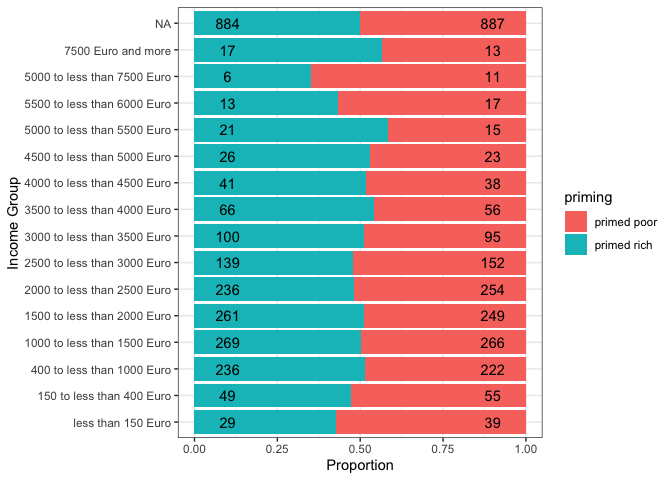
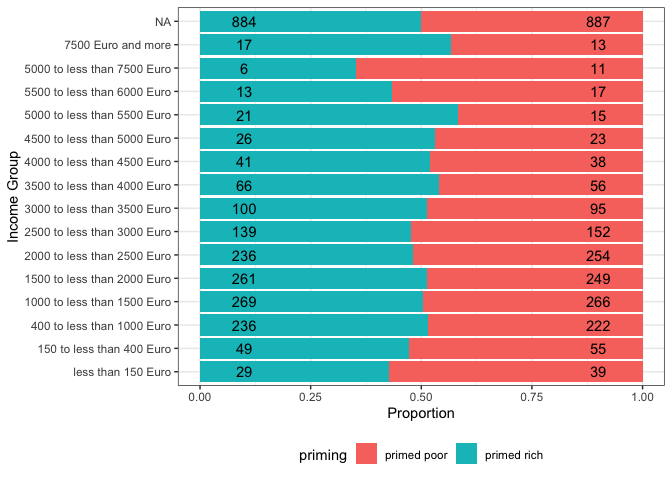
add outputs of tables in tex format and figures in PNG format

diff --git a/out/table_2.tex b/out/table_2.tex
@@ -1,0 +1,19 @@
+\captionsetup[table]{labelformat=empty,skip=1pt}
+\begin{longtable}{lrlrrlrrrr}
+\toprule
+ & \multicolumn{3}{c}{primed rich} & \multicolumn{3}{c}{primed poor} & \multicolumn{3}{c}{control} \\ 
+ \cmidrule(lr){2-4} \cmidrule(lr){5-7} \cmidrule(lr){8-10}
+variable & obs & mean & sd & obs. & mean. & sd. & obs.. & mean.. & sd.. \\ 
+\midrule
+income & 2072 &   2270.9 & 2310.2 & 2098 &  2227 & 2057.6 & 2073 & 2203.9 & 1973.9 \\ 
+male & 2072 &   † † 50.3 & 50.0 & 2098 &  * 47.2 & 49.9 & 2073 & 50.0 & 50.0 \\ 
+age & 2072 &   47.3 & 15.7 & 2098 &  47.1 & 15.5 & 2073 & 47.1 & 15.8 \\ 
+edu & 2072 &  * *  † † 4.6 & 1.2 & 2098 &  4.7 & 1.1 & 2073 & 4.7 & 1.1 \\ 
+married & 2072 &   † 47 & 49.9 & 2098 &  49.6 & 50.0 & 2073 & 49.2 & 50.0 \\ 
+student & 2072 &   4.2 & 20.0 & 2098 &  3.9 & 19.3 & 2073 & 4.2 & 20.2 \\ 
+religiousness & 2072 &   3.8 & 2.9 & 2098 &  4 & 2.9 & 2073 & 3.9 & 2.9 \\ 
+east & 2072 &   12 & 32.5 & 2098 &  * * 13.6 & 34.3 & 2073 & 11.5 & 31.9 \\ 
+leftright & 2072 &  * *  5.5 & 1.9 & 2098 &  5.4 & 1.9 & 2073 & 5.4 & 1.8 \\ 
+ \bottomrule
+\end{longtable}
+

diff --git a/out/table_a3.2_check.tex b/out/table_a3.2_check.tex
@@ -1,0 +1,18 @@
+
+\begin{tabular}{r|r|l|r}
+\hline
+q37 & q38 & treatment & payoff\\
+\hline
+15 & 3 & Primed\_poor & 16\\
+\hline
+15 & 3 & Primed\_poor & 8\\
+\hline
+15 & 3 & Primed\_rich & 10\\
+\hline
+15 & 3 & Primed\_rich & 20\\
+\hline
+15 & 3 & Primed\_rich & 10\\
+\hline
+15 & 3 & control & 16\\
+\hline
+\end{tabular}

diff --git a/replication.md b/replication.md
@@ -141,15 +141,17 @@ p_cutoffs <- c(0.1, 0.05, 0.01)
 ## Table 1
 
 ``` r
-summary_out %>%
+table_1 <- summary_out %>%
     mutate(mean = paste(pander::add.significance.stars(stats$p_value, 
                                                         cutoffs = p_cutoffs), mean)) %>% 
     gt() %>%
-    tab_spanner(label = "primed rich", 
+    tab_spanner(label = "primed rich",
                 columns = c("obs", "mean", "sd")) %>%
-    tab_spanner(label = "primed poor", 
+    tab_spanner(label = "primed poor",
                 columns = c("obs.", "mean.", "sd.")) %>%
-    as_raw_html()
+    cols_align(align = "right", "mean")
+
+table_1 %>% as_raw_html()
 ```
 
 <table style="font-family: -apple-system, BlinkMacSystemFont, 'Segoe UI', Roboto, Oxygen, Ubuntu, Cantarell, 'Helvetica Neue', 'Fira Sans', 'Droid Sans', Arial, sans-serif; display: table; border-collapse: collapse; margin-left: auto; margin-right: auto; color: #333333; font-size: 16px; font-weight: normal; font-style: normal; background-color: #FFFFFF; width: auto; border-top-style: solid; border-top-width: 2px; border-top-color: #A8A8A8; border-right-style: none; border-right-width: 2px; border-right-color: #D3D3D3; border-bottom-style: solid; border-bottom-width: 2px; border-bottom-color: #A8A8A8; border-left-style: none; border-left-width: 2px; border-left-color: #D3D3D3;">
@@ -166,7 +168,7 @@ summary_out %>%
     </tr>
     <tr>
       <th style="color: #333333; background-color: #FFFFFF; font-size: 100%; font-weight: normal; text-transform: inherit; border-left-style: none; border-left-width: 1px; border-left-color: #D3D3D3; border-right-style: none; border-right-width: 1px; border-right-color: #D3D3D3; vertical-align: bottom; padding-top: 5px; padding-bottom: 6px; padding-left: 5px; padding-right: 5px; overflow-x: hidden; text-align: right; font-variant-numeric: tabular-nums;" rowspan="1" colspan="1">obs</th>
-      <th style="color: #333333; background-color: #FFFFFF; font-size: 100%; font-weight: normal; text-transform: inherit; border-left-style: none; border-left-width: 1px; border-left-color: #D3D3D3; border-right-style: none; border-right-width: 1px; border-right-color: #D3D3D3; vertical-align: bottom; padding-top: 5px; padding-bottom: 6px; padding-left: 5px; padding-right: 5px; overflow-x: hidden; text-align: left;" rowspan="1" colspan="1">mean</th>
+      <th style="color: #333333; background-color: #FFFFFF; font-size: 100%; font-weight: normal; text-transform: inherit; border-left-style: none; border-left-width: 1px; border-left-color: #D3D3D3; border-right-style: none; border-right-width: 1px; border-right-color: #D3D3D3; vertical-align: bottom; padding-top: 5px; padding-bottom: 6px; padding-left: 5px; padding-right: 5px; overflow-x: hidden; text-align: right; font-variant-numeric: tabular-nums;" rowspan="1" colspan="1">mean</th>
       <th style="color: #333333; background-color: #FFFFFF; font-size: 100%; font-weight: normal; text-transform: inherit; border-left-style: none; border-left-width: 1px; border-left-color: #D3D3D3; border-right-style: none; border-right-width: 1px; border-right-color: #D3D3D3; vertical-align: bottom; padding-top: 5px; padding-bottom: 6px; padding-left: 5px; padding-right: 5px; overflow-x: hidden; text-align: right; font-variant-numeric: tabular-nums;" rowspan="1" colspan="1">sd</th>
       <th style="color: #333333; background-color: #FFFFFF; font-size: 100%; font-weight: normal; text-transform: inherit; border-left-style: none; border-left-width: 1px; border-left-color: #D3D3D3; border-right-style: none; border-right-width: 1px; border-right-color: #D3D3D3; vertical-align: bottom; padding-top: 5px; padding-bottom: 6px; padding-left: 5px; padding-right: 5px; overflow-x: hidden; text-align: right; font-variant-numeric: tabular-nums;" rowspan="1" colspan="1">obs.</th>
       <th style="color: #333333; background-color: #FFFFFF; font-size: 100%; font-weight: normal; text-transform: inherit; border-left-style: none; border-left-width: 1px; border-left-color: #D3D3D3; border-right-style: none; border-right-width: 1px; border-right-color: #D3D3D3; vertical-align: bottom; padding-top: 5px; padding-bottom: 6px; padding-left: 5px; padding-right: 5px; overflow-x: hidden; text-align: right; font-variant-numeric: tabular-nums;" rowspan="1" colspan="1">mean.</th>
@@ -176,63 +178,63 @@ summary_out %>%
   <tbody style="border-top-style: solid; border-top-width: 2px; border-top-color: #D3D3D3; border-bottom-style: solid; border-bottom-width: 2px; border-bottom-color: #D3D3D3;">
     <tr><td style="padding-top: 8px; padding-bottom: 8px; padding-left: 5px; padding-right: 5px; margin: 10px; border-top-style: solid; border-top-width: 1px; border-top-color: #D3D3D3; border-left-style: none; border-left-width: 1px; border-left-color: #D3D3D3; border-right-style: none; border-right-width: 1px; border-right-color: #D3D3D3; vertical-align: middle; overflow-x: hidden; text-align: left;">income</td>
 <td style="padding-top: 8px; padding-bottom: 8px; padding-left: 5px; padding-right: 5px; margin: 10px; border-top-style: solid; border-top-width: 1px; border-top-color: #D3D3D3; border-left-style: none; border-left-width: 1px; border-left-color: #D3D3D3; border-right-style: none; border-right-width: 1px; border-right-color: #D3D3D3; vertical-align: middle; overflow-x: hidden; text-align: right; font-variant-numeric: tabular-nums;">1509</td>
-<td style="padding-top: 8px; padding-bottom: 8px; padding-left: 5px; padding-right: 5px; margin: 10px; border-top-style: solid; border-top-width: 1px; border-top-color: #D3D3D3; border-left-style: none; border-left-width: 1px; border-left-color: #D3D3D3; border-right-style: none; border-right-width: 1px; border-right-color: #D3D3D3; vertical-align: middle; overflow-x: hidden; text-align: left;"> 2075.3</td>
+<td style="padding-top: 8px; padding-bottom: 8px; padding-left: 5px; padding-right: 5px; margin: 10px; border-top-style: solid; border-top-width: 1px; border-top-color: #D3D3D3; border-left-style: none; border-left-width: 1px; border-left-color: #D3D3D3; border-right-style: none; border-right-width: 1px; border-right-color: #D3D3D3; vertical-align: middle; overflow-x: hidden; text-align: right; font-variant-numeric: tabular-nums;"> 2075.3</td>
 <td style="padding-top: 8px; padding-bottom: 8px; padding-left: 5px; padding-right: 5px; margin: 10px; border-top-style: solid; border-top-width: 1px; border-top-color: #D3D3D3; border-left-style: none; border-left-width: 1px; border-left-color: #D3D3D3; border-right-style: none; border-right-width: 1px; border-right-color: #D3D3D3; vertical-align: middle; overflow-x: hidden; text-align: right; font-variant-numeric: tabular-nums;">1406.0</td>
 <td style="padding-top: 8px; padding-bottom: 8px; padding-left: 5px; padding-right: 5px; margin: 10px; border-top-style: solid; border-top-width: 1px; border-top-color: #D3D3D3; border-left-style: none; border-left-width: 1px; border-left-color: #D3D3D3; border-right-style: none; border-right-width: 1px; border-right-color: #D3D3D3; vertical-align: middle; overflow-x: hidden; text-align: right; font-variant-numeric: tabular-nums;">1505</td>
 <td style="padding-top: 8px; padding-bottom: 8px; padding-left: 5px; padding-right: 5px; margin: 10px; border-top-style: solid; border-top-width: 1px; border-top-color: #D3D3D3; border-left-style: none; border-left-width: 1px; border-left-color: #D3D3D3; border-right-style: none; border-right-width: 1px; border-right-color: #D3D3D3; vertical-align: middle; overflow-x: hidden; text-align: right; font-variant-numeric: tabular-nums;">2050.0</td>
 <td style="padding-top: 8px; padding-bottom: 8px; padding-left: 5px; padding-right: 5px; margin: 10px; border-top-style: solid; border-top-width: 1px; border-top-color: #D3D3D3; border-left-style: none; border-left-width: 1px; border-left-color: #D3D3D3; border-right-style: none; border-right-width: 1px; border-right-color: #D3D3D3; vertical-align: middle; overflow-x: hidden; text-align: right; font-variant-numeric: tabular-nums;">1381.5</td></tr>
     <tr><td style="padding-top: 8px; padding-bottom: 8px; padding-left: 5px; padding-right: 5px; margin: 10px; border-top-style: solid; border-top-width: 1px; border-top-color: #D3D3D3; border-left-style: none; border-left-width: 1px; border-left-color: #D3D3D3; border-right-style: none; border-right-width: 1px; border-right-color: #D3D3D3; vertical-align: middle; overflow-x: hidden; text-align: left;">male</td>
 <td style="padding-top: 8px; padding-bottom: 8px; padding-left: 5px; padding-right: 5px; margin: 10px; border-top-style: solid; border-top-width: 1px; border-top-color: #D3D3D3; border-left-style: none; border-left-width: 1px; border-left-color: #D3D3D3; border-right-style: none; border-right-width: 1px; border-right-color: #D3D3D3; vertical-align: middle; overflow-x: hidden; text-align: right; font-variant-numeric: tabular-nums;">2253</td>
-<td style="padding-top: 8px; padding-bottom: 8px; padding-left: 5px; padding-right: 5px; margin: 10px; border-top-style: solid; border-top-width: 1px; border-top-color: #D3D3D3; border-left-style: none; border-left-width: 1px; border-left-color: #D3D3D3; border-right-style: none; border-right-width: 1px; border-right-color: #D3D3D3; vertical-align: middle; overflow-x: hidden; text-align: left;"> 51.7</td>
+<td style="padding-top: 8px; padding-bottom: 8px; padding-left: 5px; padding-right: 5px; margin: 10px; border-top-style: solid; border-top-width: 1px; border-top-color: #D3D3D3; border-left-style: none; border-left-width: 1px; border-left-color: #D3D3D3; border-right-style: none; border-right-width: 1px; border-right-color: #D3D3D3; vertical-align: middle; overflow-x: hidden; text-align: right; font-variant-numeric: tabular-nums;"> 51.7</td>
 <td style="padding-top: 8px; padding-bottom: 8px; padding-left: 5px; padding-right: 5px; margin: 10px; border-top-style: solid; border-top-width: 1px; border-top-color: #D3D3D3; border-left-style: none; border-left-width: 1px; border-left-color: #D3D3D3; border-right-style: none; border-right-width: 1px; border-right-color: #D3D3D3; vertical-align: middle; overflow-x: hidden; text-align: right; font-variant-numeric: tabular-nums;">50.0</td>
 <td style="padding-top: 8px; padding-bottom: 8px; padding-left: 5px; padding-right: 5px; margin: 10px; border-top-style: solid; border-top-width: 1px; border-top-color: #D3D3D3; border-left-style: none; border-left-width: 1px; border-left-color: #D3D3D3; border-right-style: none; border-right-width: 1px; border-right-color: #D3D3D3; vertical-align: middle; overflow-x: hidden; text-align: right; font-variant-numeric: tabular-nums;">2254</td>
 <td style="padding-top: 8px; padding-bottom: 8px; padding-left: 5px; padding-right: 5px; margin: 10px; border-top-style: solid; border-top-width: 1px; border-top-color: #D3D3D3; border-left-style: none; border-left-width: 1px; border-left-color: #D3D3D3; border-right-style: none; border-right-width: 1px; border-right-color: #D3D3D3; vertical-align: middle; overflow-x: hidden; text-align: right; font-variant-numeric: tabular-nums;">50.8</td>
 <td style="padding-top: 8px; padding-bottom: 8px; padding-left: 5px; padding-right: 5px; margin: 10px; border-top-style: solid; border-top-width: 1px; border-top-color: #D3D3D3; border-left-style: none; border-left-width: 1px; border-left-color: #D3D3D3; border-right-style: none; border-right-width: 1px; border-right-color: #D3D3D3; vertical-align: middle; overflow-x: hidden; text-align: right; font-variant-numeric: tabular-nums;">50.0</td></tr>
     <tr><td style="padding-top: 8px; padding-bottom: 8px; padding-left: 5px; padding-right: 5px; margin: 10px; border-top-style: solid; border-top-width: 1px; border-top-color: #D3D3D3; border-left-style: none; border-left-width: 1px; border-left-color: #D3D3D3; border-right-style: none; border-right-width: 1px; border-right-color: #D3D3D3; vertical-align: middle; overflow-x: hidden; text-align: left;">age</td>
 <td style="padding-top: 8px; padding-bottom: 8px; padding-left: 5px; padding-right: 5px; margin: 10px; border-top-style: solid; border-top-width: 1px; border-top-color: #D3D3D3; border-left-style: none; border-left-width: 1px; border-left-color: #D3D3D3; border-right-style: none; border-right-width: 1px; border-right-color: #D3D3D3; vertical-align: middle; overflow-x: hidden; text-align: right; font-variant-numeric: tabular-nums;">2252</td>
-<td style="padding-top: 8px; padding-bottom: 8px; padding-left: 5px; padding-right: 5px; margin: 10px; border-top-style: solid; border-top-width: 1px; border-top-color: #D3D3D3; border-left-style: none; border-left-width: 1px; border-left-color: #D3D3D3; border-right-style: none; border-right-width: 1px; border-right-color: #D3D3D3; vertical-align: middle; overflow-x: hidden; text-align: left;"> * 50.6</td>
+<td style="padding-top: 8px; padding-bottom: 8px; padding-left: 5px; padding-right: 5px; margin: 10px; border-top-style: solid; border-top-width: 1px; border-top-color: #D3D3D3; border-left-style: none; border-left-width: 1px; border-left-color: #D3D3D3; border-right-style: none; border-right-width: 1px; border-right-color: #D3D3D3; vertical-align: middle; overflow-x: hidden; text-align: right; font-variant-numeric: tabular-nums;"> * 50.6</td>
 <td style="padding-top: 8px; padding-bottom: 8px; padding-left: 5px; padding-right: 5px; margin: 10px; border-top-style: solid; border-top-width: 1px; border-top-color: #D3D3D3; border-left-style: none; border-left-width: 1px; border-left-color: #D3D3D3; border-right-style: none; border-right-width: 1px; border-right-color: #D3D3D3; vertical-align: middle; overflow-x: hidden; text-align: right; font-variant-numeric: tabular-nums;">15.6</td>
 <td style="padding-top: 8px; padding-bottom: 8px; padding-left: 5px; padding-right: 5px; margin: 10px; border-top-style: solid; border-top-width: 1px; border-top-color: #D3D3D3; border-left-style: none; border-left-width: 1px; border-left-color: #D3D3D3; border-right-style: none; border-right-width: 1px; border-right-color: #D3D3D3; vertical-align: middle; overflow-x: hidden; text-align: right; font-variant-numeric: tabular-nums;">2255</td>
 <td style="padding-top: 8px; padding-bottom: 8px; padding-left: 5px; padding-right: 5px; margin: 10px; border-top-style: solid; border-top-width: 1px; border-top-color: #D3D3D3; border-left-style: none; border-left-width: 1px; border-left-color: #D3D3D3; border-right-style: none; border-right-width: 1px; border-right-color: #D3D3D3; vertical-align: middle; overflow-x: hidden; text-align: right; font-variant-numeric: tabular-nums;">49.7</td>
 <td style="padding-top: 8px; padding-bottom: 8px; padding-left: 5px; padding-right: 5px; margin: 10px; border-top-style: solid; border-top-width: 1px; border-top-color: #D3D3D3; border-left-style: none; border-left-width: 1px; border-left-color: #D3D3D3; border-right-style: none; border-right-width: 1px; border-right-color: #D3D3D3; vertical-align: middle; overflow-x: hidden; text-align: right; font-variant-numeric: tabular-nums;">15.6</td></tr>
     <tr><td style="padding-top: 8px; padding-bottom: 8px; padding-left: 5px; padding-right: 5px; margin: 10px; border-top-style: solid; border-top-width: 1px; border-top-color: #D3D3D3; border-left-style: none; border-left-width: 1px; border-left-color: #D3D3D3; border-right-style: none; border-right-width: 1px; border-right-color: #D3D3D3; vertical-align: middle; overflow-x: hidden; text-align: left;">edu</td>
 <td style="padding-top: 8px; padding-bottom: 8px; padding-left: 5px; padding-right: 5px; margin: 10px; border-top-style: solid; border-top-width: 1px; border-top-color: #D3D3D3; border-left-style: none; border-left-width: 1px; border-left-color: #D3D3D3; border-right-style: none; border-right-width: 1px; border-right-color: #D3D3D3; vertical-align: middle; overflow-x: hidden; text-align: right; font-variant-numeric: tabular-nums;">2268</td>
-<td style="padding-top: 8px; padding-bottom: 8px; padding-left: 5px; padding-right: 5px; margin: 10px; border-top-style: solid; border-top-width: 1px; border-top-color: #D3D3D3; border-left-style: none; border-left-width: 1px; border-left-color: #D3D3D3; border-right-style: none; border-right-width: 1px; border-right-color: #D3D3D3; vertical-align: middle; overflow-x: hidden; text-align: left;"> 2</td>
+<td style="padding-top: 8px; padding-bottom: 8px; padding-left: 5px; padding-right: 5px; margin: 10px; border-top-style: solid; border-top-width: 1px; border-top-color: #D3D3D3; border-left-style: none; border-left-width: 1px; border-left-color: #D3D3D3; border-right-style: none; border-right-width: 1px; border-right-color: #D3D3D3; vertical-align: middle; overflow-x: hidden; text-align: right; font-variant-numeric: tabular-nums;"> 2</td>
 <td style="padding-top: 8px; padding-bottom: 8px; padding-left: 5px; padding-right: 5px; margin: 10px; border-top-style: solid; border-top-width: 1px; border-top-color: #D3D3D3; border-left-style: none; border-left-width: 1px; border-left-color: #D3D3D3; border-right-style: none; border-right-width: 1px; border-right-color: #D3D3D3; vertical-align: middle; overflow-x: hidden; text-align: right; font-variant-numeric: tabular-nums;">1.4</td>
 <td style="padding-top: 8px; padding-bottom: 8px; padding-left: 5px; padding-right: 5px; margin: 10px; border-top-style: solid; border-top-width: 1px; border-top-color: #D3D3D3; border-left-style: none; border-left-width: 1px; border-left-color: #D3D3D3; border-right-style: none; border-right-width: 1px; border-right-color: #D3D3D3; vertical-align: middle; overflow-x: hidden; text-align: right; font-variant-numeric: tabular-nums;">2270</td>
 <td style="padding-top: 8px; padding-bottom: 8px; padding-left: 5px; padding-right: 5px; margin: 10px; border-top-style: solid; border-top-width: 1px; border-top-color: #D3D3D3; border-left-style: none; border-left-width: 1px; border-left-color: #D3D3D3; border-right-style: none; border-right-width: 1px; border-right-color: #D3D3D3; vertical-align: middle; overflow-x: hidden; text-align: right; font-variant-numeric: tabular-nums;">2.0</td>
 <td style="padding-top: 8px; padding-bottom: 8px; padding-left: 5px; padding-right: 5px; margin: 10px; border-top-style: solid; border-top-width: 1px; border-top-color: #D3D3D3; border-left-style: none; border-left-width: 1px; border-left-color: #D3D3D3; border-right-style: none; border-right-width: 1px; border-right-color: #D3D3D3; vertical-align: middle; overflow-x: hidden; text-align: right; font-variant-numeric: tabular-nums;">1.4</td></tr>
     <tr><td style="padding-top: 8px; padding-bottom: 8px; padding-left: 5px; padding-right: 5px; margin: 10px; border-top-style: solid; border-top-width: 1px; border-top-color: #D3D3D3; border-left-style: none; border-left-width: 1px; border-left-color: #D3D3D3; border-right-style: none; border-right-width: 1px; border-right-color: #D3D3D3; vertical-align: middle; overflow-x: hidden; text-align: left;">married</td>
 <td style="padding-top: 8px; padding-bottom: 8px; padding-left: 5px; padding-right: 5px; margin: 10px; border-top-style: solid; border-top-width: 1px; border-top-color: #D3D3D3; border-left-style: none; border-left-width: 1px; border-left-color: #D3D3D3; border-right-style: none; border-right-width: 1px; border-right-color: #D3D3D3; vertical-align: middle; overflow-x: hidden; text-align: right; font-variant-numeric: tabular-nums;">2393</td>
-<td style="padding-top: 8px; padding-bottom: 8px; padding-left: 5px; padding-right: 5px; margin: 10px; border-top-style: solid; border-top-width: 1px; border-top-color: #D3D3D3; border-left-style: none; border-left-width: 1px; border-left-color: #D3D3D3; border-right-style: none; border-right-width: 1px; border-right-color: #D3D3D3; vertical-align: middle; overflow-x: hidden; text-align: left;"> * 52.8</td>
+<td style="padding-top: 8px; padding-bottom: 8px; padding-left: 5px; padding-right: 5px; margin: 10px; border-top-style: solid; border-top-width: 1px; border-top-color: #D3D3D3; border-left-style: none; border-left-width: 1px; border-left-color: #D3D3D3; border-right-style: none; border-right-width: 1px; border-right-color: #D3D3D3; vertical-align: middle; overflow-x: hidden; text-align: right; font-variant-numeric: tabular-nums;"> * 52.8</td>
 <td style="padding-top: 8px; padding-bottom: 8px; padding-left: 5px; padding-right: 5px; margin: 10px; border-top-style: solid; border-top-width: 1px; border-top-color: #D3D3D3; border-left-style: none; border-left-width: 1px; border-left-color: #D3D3D3; border-right-style: none; border-right-width: 1px; border-right-color: #D3D3D3; vertical-align: middle; overflow-x: hidden; text-align: right; font-variant-numeric: tabular-nums;">49.9</td>
 <td style="padding-top: 8px; padding-bottom: 8px; padding-left: 5px; padding-right: 5px; margin: 10px; border-top-style: solid; border-top-width: 1px; border-top-color: #D3D3D3; border-left-style: none; border-left-width: 1px; border-left-color: #D3D3D3; border-right-style: none; border-right-width: 1px; border-right-color: #D3D3D3; vertical-align: middle; overflow-x: hidden; text-align: right; font-variant-numeric: tabular-nums;">2392</td>
 <td style="padding-top: 8px; padding-bottom: 8px; padding-left: 5px; padding-right: 5px; margin: 10px; border-top-style: solid; border-top-width: 1px; border-top-color: #D3D3D3; border-left-style: none; border-left-width: 1px; border-left-color: #D3D3D3; border-right-style: none; border-right-width: 1px; border-right-color: #D3D3D3; vertical-align: middle; overflow-x: hidden; text-align: right; font-variant-numeric: tabular-nums;">50.3</td>
 <td style="padding-top: 8px; padding-bottom: 8px; padding-left: 5px; padding-right: 5px; margin: 10px; border-top-style: solid; border-top-width: 1px; border-top-color: #D3D3D3; border-left-style: none; border-left-width: 1px; border-left-color: #D3D3D3; border-right-style: none; border-right-width: 1px; border-right-color: #D3D3D3; vertical-align: middle; overflow-x: hidden; text-align: right; font-variant-numeric: tabular-nums;">50.0</td></tr>
     <tr><td style="padding-top: 8px; padding-bottom: 8px; padding-left: 5px; padding-right: 5px; margin: 10px; border-top-style: solid; border-top-width: 1px; border-top-color: #D3D3D3; border-left-style: none; border-left-width: 1px; border-left-color: #D3D3D3; border-right-style: none; border-right-width: 1px; border-right-color: #D3D3D3; vertical-align: middle; overflow-x: hidden; text-align: left;">student</td>
 <td style="padding-top: 8px; padding-bottom: 8px; padding-left: 5px; padding-right: 5px; margin: 10px; border-top-style: solid; border-top-width: 1px; border-top-color: #D3D3D3; border-left-style: none; border-left-width: 1px; border-left-color: #D3D3D3; border-right-style: none; border-right-width: 1px; border-right-color: #D3D3D3; vertical-align: middle; overflow-x: hidden; text-align: right; font-variant-numeric: tabular-nums;">2393</td>
-<td style="padding-top: 8px; padding-bottom: 8px; padding-left: 5px; padding-right: 5px; margin: 10px; border-top-style: solid; border-top-width: 1px; border-top-color: #D3D3D3; border-left-style: none; border-left-width: 1px; border-left-color: #D3D3D3; border-right-style: none; border-right-width: 1px; border-right-color: #D3D3D3; vertical-align: middle; overflow-x: hidden; text-align: left;"> 4.4</td>
+<td style="padding-top: 8px; padding-bottom: 8px; padding-left: 5px; padding-right: 5px; margin: 10px; border-top-style: solid; border-top-width: 1px; border-top-color: #D3D3D3; border-left-style: none; border-left-width: 1px; border-left-color: #D3D3D3; border-right-style: none; border-right-width: 1px; border-right-color: #D3D3D3; vertical-align: middle; overflow-x: hidden; text-align: right; font-variant-numeric: tabular-nums;"> 4.4</td>
 <td style="padding-top: 8px; padding-bottom: 8px; padding-left: 5px; padding-right: 5px; margin: 10px; border-top-style: solid; border-top-width: 1px; border-top-color: #D3D3D3; border-left-style: none; border-left-width: 1px; border-left-color: #D3D3D3; border-right-style: none; border-right-width: 1px; border-right-color: #D3D3D3; vertical-align: middle; overflow-x: hidden; text-align: right; font-variant-numeric: tabular-nums;">20.6</td>
 <td style="padding-top: 8px; padding-bottom: 8px; padding-left: 5px; padding-right: 5px; margin: 10px; border-top-style: solid; border-top-width: 1px; border-top-color: #D3D3D3; border-left-style: none; border-left-width: 1px; border-left-color: #D3D3D3; border-right-style: none; border-right-width: 1px; border-right-color: #D3D3D3; vertical-align: middle; overflow-x: hidden; text-align: right; font-variant-numeric: tabular-nums;">2392</td>
 <td style="padding-top: 8px; padding-bottom: 8px; padding-left: 5px; padding-right: 5px; margin: 10px; border-top-style: solid; border-top-width: 1px; border-top-color: #D3D3D3; border-left-style: none; border-left-width: 1px; border-left-color: #D3D3D3; border-right-style: none; border-right-width: 1px; border-right-color: #D3D3D3; vertical-align: middle; overflow-x: hidden; text-align: right; font-variant-numeric: tabular-nums;">4.7</td>
 <td style="padding-top: 8px; padding-bottom: 8px; padding-left: 5px; padding-right: 5px; margin: 10px; border-top-style: solid; border-top-width: 1px; border-top-color: #D3D3D3; border-left-style: none; border-left-width: 1px; border-left-color: #D3D3D3; border-right-style: none; border-right-width: 1px; border-right-color: #D3D3D3; vertical-align: middle; overflow-x: hidden; text-align: right; font-variant-numeric: tabular-nums;">21.1</td></tr>
     <tr><td style="padding-top: 8px; padding-bottom: 8px; padding-left: 5px; padding-right: 5px; margin: 10px; border-top-style: solid; border-top-width: 1px; border-top-color: #D3D3D3; border-left-style: none; border-left-width: 1px; border-left-color: #D3D3D3; border-right-style: none; border-right-width: 1px; border-right-color: #D3D3D3; vertical-align: middle; overflow-x: hidden; text-align: left;">religiousness</td>
 <td style="padding-top: 8px; padding-bottom: 8px; padding-left: 5px; padding-right: 5px; margin: 10px; border-top-style: solid; border-top-width: 1px; border-top-color: #D3D3D3; border-left-style: none; border-left-width: 1px; border-left-color: #D3D3D3; border-right-style: none; border-right-width: 1px; border-right-color: #D3D3D3; vertical-align: middle; overflow-x: hidden; text-align: right; font-variant-numeric: tabular-nums;">2243</td>
-<td style="padding-top: 8px; padding-bottom: 8px; padding-left: 5px; padding-right: 5px; margin: 10px; border-top-style: solid; border-top-width: 1px; border-top-color: #D3D3D3; border-left-style: none; border-left-width: 1px; border-left-color: #D3D3D3; border-right-style: none; border-right-width: 1px; border-right-color: #D3D3D3; vertical-align: middle; overflow-x: hidden; text-align: left;"> 4.4</td>
+<td style="padding-top: 8px; padding-bottom: 8px; padding-left: 5px; padding-right: 5px; margin: 10px; border-top-style: solid; border-top-width: 1px; border-top-color: #D3D3D3; border-left-style: none; border-left-width: 1px; border-left-color: #D3D3D3; border-right-style: none; border-right-width: 1px; border-right-color: #D3D3D3; vertical-align: middle; overflow-x: hidden; text-align: right; font-variant-numeric: tabular-nums;"> 4.4</td>
 <td style="padding-top: 8px; padding-bottom: 8px; padding-left: 5px; padding-right: 5px; margin: 10px; border-top-style: solid; border-top-width: 1px; border-top-color: #D3D3D3; border-left-style: none; border-left-width: 1px; border-left-color: #D3D3D3; border-right-style: none; border-right-width: 1px; border-right-color: #D3D3D3; vertical-align: middle; overflow-x: hidden; text-align: right; font-variant-numeric: tabular-nums;">3.0</td>
 <td style="padding-top: 8px; padding-bottom: 8px; padding-left: 5px; padding-right: 5px; margin: 10px; border-top-style: solid; border-top-width: 1px; border-top-color: #D3D3D3; border-left-style: none; border-left-width: 1px; border-left-color: #D3D3D3; border-right-style: none; border-right-width: 1px; border-right-color: #D3D3D3; vertical-align: middle; overflow-x: hidden; text-align: right; font-variant-numeric: tabular-nums;">2263</td>
 <td style="padding-top: 8px; padding-bottom: 8px; padding-left: 5px; padding-right: 5px; margin: 10px; border-top-style: solid; border-top-width: 1px; border-top-color: #D3D3D3; border-left-style: none; border-left-width: 1px; border-left-color: #D3D3D3; border-right-style: none; border-right-width: 1px; border-right-color: #D3D3D3; vertical-align: middle; overflow-x: hidden; text-align: right; font-variant-numeric: tabular-nums;">4.4</td>
 <td style="padding-top: 8px; padding-bottom: 8px; padding-left: 5px; padding-right: 5px; margin: 10px; border-top-style: solid; border-top-width: 1px; border-top-color: #D3D3D3; border-left-style: none; border-left-width: 1px; border-left-color: #D3D3D3; border-right-style: none; border-right-width: 1px; border-right-color: #D3D3D3; vertical-align: middle; overflow-x: hidden; text-align: right; font-variant-numeric: tabular-nums;">3.0</td></tr>
     <tr><td style="padding-top: 8px; padding-bottom: 8px; padding-left: 5px; padding-right: 5px; margin: 10px; border-top-style: solid; border-top-width: 1px; border-top-color: #D3D3D3; border-left-style: none; border-left-width: 1px; border-left-color: #D3D3D3; border-right-style: none; border-right-width: 1px; border-right-color: #D3D3D3; vertical-align: middle; overflow-x: hidden; text-align: left;">east</td>
 <td style="padding-top: 8px; padding-bottom: 8px; padding-left: 5px; padding-right: 5px; margin: 10px; border-top-style: solid; border-top-width: 1px; border-top-color: #D3D3D3; border-left-style: none; border-left-width: 1px; border-left-color: #D3D3D3; border-right-style: none; border-right-width: 1px; border-right-color: #D3D3D3; vertical-align: middle; overflow-x: hidden; text-align: right; font-variant-numeric: tabular-nums;">2392</td>
-<td style="padding-top: 8px; padding-bottom: 8px; padding-left: 5px; padding-right: 5px; margin: 10px; border-top-style: solid; border-top-width: 1px; border-top-color: #D3D3D3; border-left-style: none; border-left-width: 1px; border-left-color: #D3D3D3; border-right-style: none; border-right-width: 1px; border-right-color: #D3D3D3; vertical-align: middle; overflow-x: hidden; text-align: left;"> 19.4</td>
+<td style="padding-top: 8px; padding-bottom: 8px; padding-left: 5px; padding-right: 5px; margin: 10px; border-top-style: solid; border-top-width: 1px; border-top-color: #D3D3D3; border-left-style: none; border-left-width: 1px; border-left-color: #D3D3D3; border-right-style: none; border-right-width: 1px; border-right-color: #D3D3D3; vertical-align: middle; overflow-x: hidden; text-align: right; font-variant-numeric: tabular-nums;"> 19.4</td>
 <td style="padding-top: 8px; padding-bottom: 8px; padding-left: 5px; padding-right: 5px; margin: 10px; border-top-style: solid; border-top-width: 1px; border-top-color: #D3D3D3; border-left-style: none; border-left-width: 1px; border-left-color: #D3D3D3; border-right-style: none; border-right-width: 1px; border-right-color: #D3D3D3; vertical-align: middle; overflow-x: hidden; text-align: right; font-variant-numeric: tabular-nums;">39.5</td>
 <td style="padding-top: 8px; padding-bottom: 8px; padding-left: 5px; padding-right: 5px; margin: 10px; border-top-style: solid; border-top-width: 1px; border-top-color: #D3D3D3; border-left-style: none; border-left-width: 1px; border-left-color: #D3D3D3; border-right-style: none; border-right-width: 1px; border-right-color: #D3D3D3; vertical-align: middle; overflow-x: hidden; text-align: right; font-variant-numeric: tabular-nums;">2391</td>
 <td style="padding-top: 8px; padding-bottom: 8px; padding-left: 5px; padding-right: 5px; margin: 10px; border-top-style: solid; border-top-width: 1px; border-top-color: #D3D3D3; border-left-style: none; border-left-width: 1px; border-left-color: #D3D3D3; border-right-style: none; border-right-width: 1px; border-right-color: #D3D3D3; vertical-align: middle; overflow-x: hidden; text-align: right; font-variant-numeric: tabular-nums;">19.2</td>
 <td style="padding-top: 8px; padding-bottom: 8px; padding-left: 5px; padding-right: 5px; margin: 10px; border-top-style: solid; border-top-width: 1px; border-top-color: #D3D3D3; border-left-style: none; border-left-width: 1px; border-left-color: #D3D3D3; border-right-style: none; border-right-width: 1px; border-right-color: #D3D3D3; vertical-align: middle; overflow-x: hidden; text-align: right; font-variant-numeric: tabular-nums;">39.4</td></tr>
     <tr><td style="padding-top: 8px; padding-bottom: 8px; padding-left: 5px; padding-right: 5px; margin: 10px; border-top-style: solid; border-top-width: 1px; border-top-color: #D3D3D3; border-left-style: none; border-left-width: 1px; border-left-color: #D3D3D3; border-right-style: none; border-right-width: 1px; border-right-color: #D3D3D3; vertical-align: middle; overflow-x: hidden; text-align: left;">leftright</td>
 <td style="padding-top: 8px; padding-bottom: 8px; padding-left: 5px; padding-right: 5px; margin: 10px; border-top-style: solid; border-top-width: 1px; border-top-color: #D3D3D3; border-left-style: none; border-left-width: 1px; border-left-color: #D3D3D3; border-right-style: none; border-right-width: 1px; border-right-color: #D3D3D3; vertical-align: middle; overflow-x: hidden; text-align: right; font-variant-numeric: tabular-nums;">1994</td>
-<td style="padding-top: 8px; padding-bottom: 8px; padding-left: 5px; padding-right: 5px; margin: 10px; border-top-style: solid; border-top-width: 1px; border-top-color: #D3D3D3; border-left-style: none; border-left-width: 1px; border-left-color: #D3D3D3; border-right-style: none; border-right-width: 1px; border-right-color: #D3D3D3; vertical-align: middle; overflow-x: hidden; text-align: left;"> 5.3</td>
+<td style="padding-top: 8px; padding-bottom: 8px; padding-left: 5px; padding-right: 5px; margin: 10px; border-top-style: solid; border-top-width: 1px; border-top-color: #D3D3D3; border-left-style: none; border-left-width: 1px; border-left-color: #D3D3D3; border-right-style: none; border-right-width: 1px; border-right-color: #D3D3D3; vertical-align: middle; overflow-x: hidden; text-align: right; font-variant-numeric: tabular-nums;"> 5.3</td>
 <td style="padding-top: 8px; padding-bottom: 8px; padding-left: 5px; padding-right: 5px; margin: 10px; border-top-style: solid; border-top-width: 1px; border-top-color: #D3D3D3; border-left-style: none; border-left-width: 1px; border-left-color: #D3D3D3; border-right-style: none; border-right-width: 1px; border-right-color: #D3D3D3; vertical-align: middle; overflow-x: hidden; text-align: right; font-variant-numeric: tabular-nums;">2.0</td>
 <td style="padding-top: 8px; padding-bottom: 8px; padding-left: 5px; padding-right: 5px; margin: 10px; border-top-style: solid; border-top-width: 1px; border-top-color: #D3D3D3; border-left-style: none; border-left-width: 1px; border-left-color: #D3D3D3; border-right-style: none; border-right-width: 1px; border-right-color: #D3D3D3; vertical-align: middle; overflow-x: hidden; text-align: right; font-variant-numeric: tabular-nums;">2014</td>
 <td style="padding-top: 8px; padding-bottom: 8px; padding-left: 5px; padding-right: 5px; margin: 10px; border-top-style: solid; border-top-width: 1px; border-top-color: #D3D3D3; border-left-style: none; border-left-width: 1px; border-left-color: #D3D3D3; border-right-style: none; border-right-width: 1px; border-right-color: #D3D3D3; vertical-align: middle; overflow-x: hidden; text-align: right; font-variant-numeric: tabular-nums;">5.2</td>
@@ -244,6 +246,10 @@ summary_out %>%
 
 Stars (`*`, `* *`, `* * *`) indicate significance (between the rich and
 poor conditions) at the 0.1, 0.05, 0.01 levels, respectively.
+
+``` r
+table_1 %>% as_latex() %>% write_lines(file = here::here("out", "table_1.tex"))
+```
 
 ## Figure 2
 
@@ -261,6 +267,11 @@ ggplot(dat_study1) +
 
 ![Histogram of Individual
 Payments](replication_files/figure-gfm/unnamed-chunk-3-1.png)
+
+``` r
+ggsave(here::here("out", "figure_2.png"), 
+       width = 4, height = 3)
+```
 
 ## Figure A1.1
 
@@ -287,12 +298,13 @@ income_labels <- c("less than 150 Euro",
 plot_randomization_by_income <- function(to_plot, counts)
 {
     to_plot %>%
-    ggplot(aes(x = income, group = priming)) + 
-    geom_bar(aes(fill = priming), position = "fill") + 
-    geom_text(data = counts, aes(y = pos, label = n)) + 
-    coord_flip() + 
-    theme_bw() + 
-    ylab("Proportion") + xlab("Income Group")
+        ggplot(aes(x = income, group = priming)) + 
+        geom_bar(aes(fill = priming), position = "fill") + 
+        geom_text(data = counts, aes(y = pos, label = n)) + 
+        coord_flip() + 
+        theme_bw() + 
+        theme(legend.position = "bottom") + 
+        ylab("Proportion") + xlab("Income Group")
 }
 
 to_plot <- dat_study1 %>%
@@ -307,6 +319,11 @@ plot_randomization_by_income(to_plot, counts)
 ```
 
 ![](replication_files/figure-gfm/unnamed-chunk-4-1.png)<!-- -->
+
+``` r
+ggsave(here::here("out", "figure_a1.1.png"), 
+       width = 5, height = 7)
+```
 
 ## Figure A2.1
 
@@ -342,6 +359,13 @@ plot_var_vs_group(dat_study1, manip) +
 
 ![](replication_files/figure-gfm/unnamed-chunk-6-1.png)<!-- -->
 
+``` r
+ggsave(here::here("out", "figure_a2.1.png"), 
+       width = 5, height = 3)
+```
+
+    ## Warning: Removed 2 rows containing missing values (`geom_point()`).
+
 ## Figure A3.1
 
 Payments vs. Income, grouped by “Primed-Rich” and “Primed-Poor”
@@ -355,6 +379,13 @@ plot_var_vs_group(dat_study1, payment) +
     ## Warning: Removed 2 rows containing missing values (`geom_point()`).
 
 ![](replication_files/figure-gfm/unnamed-chunk-7-1.png)<!-- -->
+
+``` r
+ggsave(here::here("out", "figure_a3.1.png"), 
+       width = 5, height = 3)
+```
+
+    ## Warning: Removed 2 rows containing missing values (`geom_point()`).
 
 ## Figure A4.1
 
@@ -370,6 +401,13 @@ plot_var_vs_group(dat_study1, payment, age) +
 
 ![](replication_files/figure-gfm/unnamed-chunk-8-1.png)<!-- -->
 
+``` r
+ggsave(here::here("out", "figure_a4.1.png"), 
+       width = 5, height = 3)
+```
+
+    ## Warning: Removed 2 rows containing missing values (`geom_point()`).
+
 ## Figure A4.3
 
 Payments vs. Education, grouped by “Primed-Rich” and “Primed-Poor”
@@ -383,6 +421,13 @@ plot_var_vs_group(dat_study1, payment, edu) +
     ## Warning: Removed 2 rows containing missing values (`geom_point()`).
 
 ![](replication_files/figure-gfm/unnamed-chunk-9-1.png)<!-- -->
+
+``` r
+ggsave(here::here("out", "figure_a4.3.png"), 
+       width = 5, height = 3)
+```
+
+    ## Warning: Removed 2 rows containing missing values (`geom_point()`).
 
 # Survey 2
 
@@ -498,7 +543,7 @@ stats <- tibble(variable = summary_vars,
 ## Table 2
 
 ``` r
-summary_out %>%
+table_2 <- summary_out %>%
     mutate(mean = paste(stats$stars_rich_control, stats$stars_rich_poor, mean), 
            `mean.` = paste(stats$stars_poor_control, `mean.`)) %>% 
     gt() %>%
@@ -507,8 +552,9 @@ summary_out %>%
     tab_spanner(label = "primed poor", 
                 columns = c("obs.", "mean.", "sd.")) %>%
     tab_spanner(label = "control", 
-                columns = c("obs..", "mean..", "sd..")) %>%
-    as_raw_html()
+                columns = c("obs..", "mean..", "sd.."))
+
+table_2 %>% as_raw_html()
 ```
 
 <table style="font-family: -apple-system, BlinkMacSystemFont, 'Segoe UI', Roboto, Oxygen, Ubuntu, Cantarell, 'Helvetica Neue', 'Fira Sans', 'Droid Sans', Arial, sans-serif; display: table; border-collapse: collapse; margin-left: auto; margin-right: auto; color: #333333; font-size: 16px; font-weight: normal; font-style: normal; background-color: #FFFFFF; width: auto; border-top-style: solid; border-top-width: 2px; border-top-color: #A8A8A8; border-right-style: none; border-right-width: 2px; border-right-color: #D3D3D3; border-bottom-style: solid; border-bottom-width: 2px; border-bottom-color: #A8A8A8; border-left-style: none; border-left-width: 2px; border-left-color: #D3D3D3;">
@@ -640,6 +686,10 @@ control OR between the poor and control conditions) at the 0.1, 0.05,
 significance (between the rich and poor conditions) at the 0.1, 0.05,
 0.01 levels, respectively.
 
+``` r
+table_2 %>% as_latex() %>% write_lines(file = here::here("out", "table_2.tex"))
+```
+
 ## Figure A1.2
 
 To create figure A1.2, convert income into a factor variable with proper
@@ -660,6 +710,11 @@ plot_randomization_by_income(to_plot, counts)
 
 ![](replication_files/figure-gfm/unnamed-chunk-10-1.png)<!-- -->
 
+``` r
+ggsave(here::here("out", "figure_a1.2.png"), 
+       width = 5, height = 7)
+```
+
 ## Figure A2.2
 
 Manipulation Check (y-axis) vs Income, grouped by “Primed-Rich” and
@@ -673,6 +728,11 @@ plot_var_vs_group(dat_study2, manip) +
 
 ![](replication_files/figure-gfm/unnamed-chunk-11-1.png)<!-- -->
 
+``` r
+ggsave(here::here("out", "figure_a2.2.png"), 
+       width = 5, height = 3)
+```
+
 ## Figure A3.2
 
 Payments vs. Income, grouped by “Primed-Rich” and “Primed-Poor”
@@ -684,6 +744,11 @@ plot_var_vs_group(dat_study2, payment) +
 ```
 
 ![](replication_files/figure-gfm/unnamed-chunk-12-1.png)<!-- -->
+
+``` r
+ggsave(here::here("out", "figure_a3.2.png"), 
+       width = 5, height = 3)
+```
 
 The labels appear reversed from Figure A3.2 in the appendix. Let’s check
 with the raw values for the income == 17,500 group. Note the income
@@ -726,6 +791,11 @@ plot_var_vs_group(dat_study2, payment, age) +
 
 ![](replication_files/figure-gfm/unnamed-chunk-14-1.png)<!-- -->
 
+``` r
+ggsave(here::here("out", "figure_a4.2.png"), 
+       width = 5, height = 3)
+```
+
 ## Figure A4.4
 
 Payments vs. Education, grouped by “Primed-Rich” and “Primed-Poor”
@@ -737,3 +807,8 @@ plot_var_vs_group(dat_study2, payment, edu) +
 ```
 
 ![](replication_files/figure-gfm/unnamed-chunk-15-1.png)<!-- -->
+
+``` r
+ggsave(here::here("out", "figure_a4.4.png"), 
+       width = 5, height = 3)
+```
